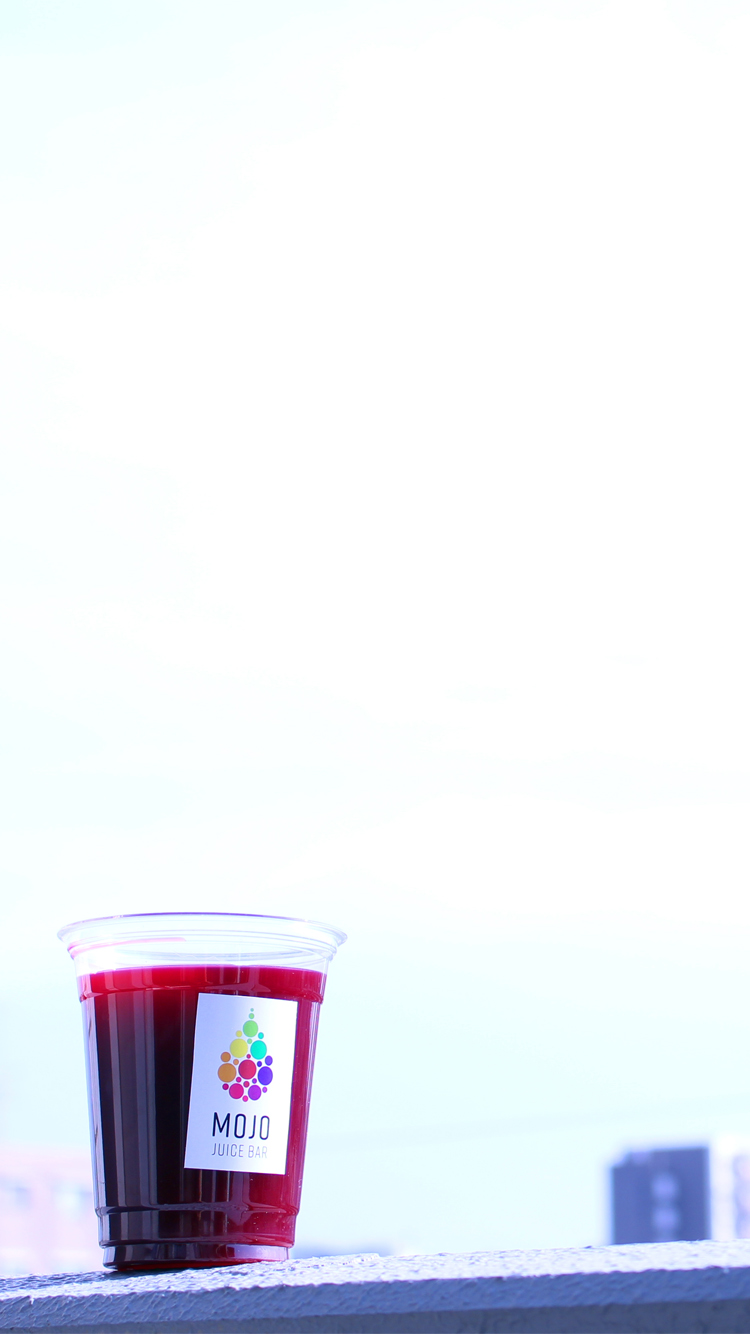
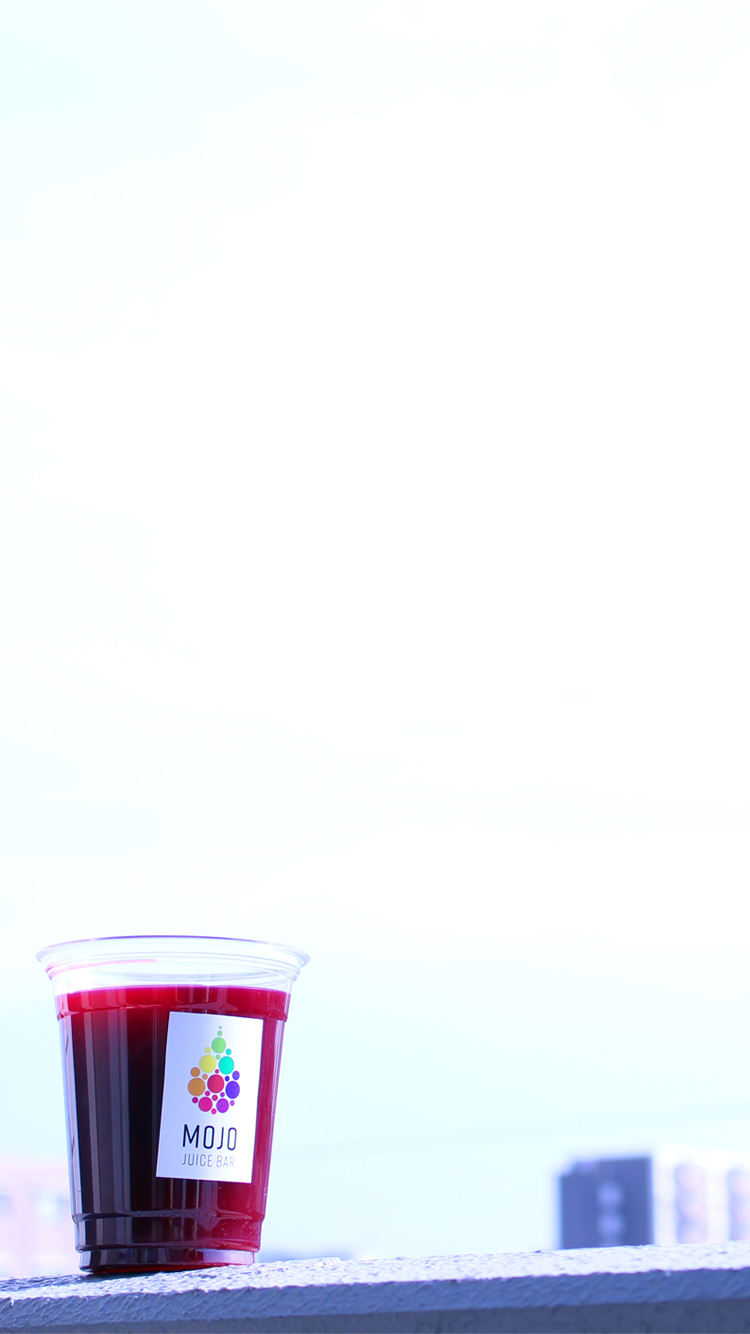
mojo

diff --git a/MOJO/concept/css/style.css b/MOJO/concept/css/style.css
@@ -162,7 +162,7 @@ nav a:active{
 @media (max-width:768px) {
   #contents{
     height: 100%;
-    background: url(../img/ph_bgConcept_sp.jpg)left top no-repeat;
+    background: url(../img/ph_bgConcept_sp.jpg)left bottom no-repeat;
     background-attachment: fixed;
     background-size: cover;
   }

diff --git a/MOJO/menu/css/style.css b/MOJO/menu/css/style.css
@@ -235,6 +235,9 @@ nav a:active{
 
 @media (max-width:768px){
   #contents{
+    background: url(../img/ph_bgMenu_sp.jpg) center top no-repeat;
+    background-attachment: fixed;
+    background-size: cover;
     padding-bottom: 100px;
   }
   #contents .menuDetails{
